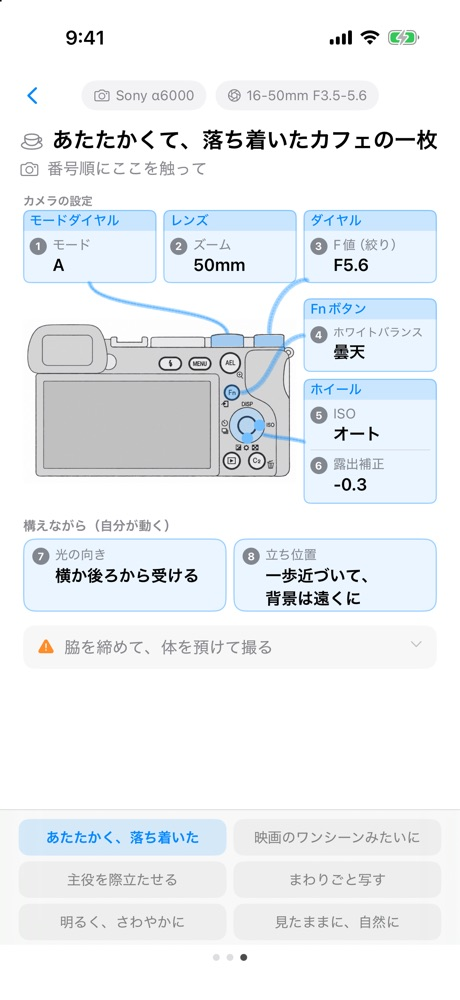
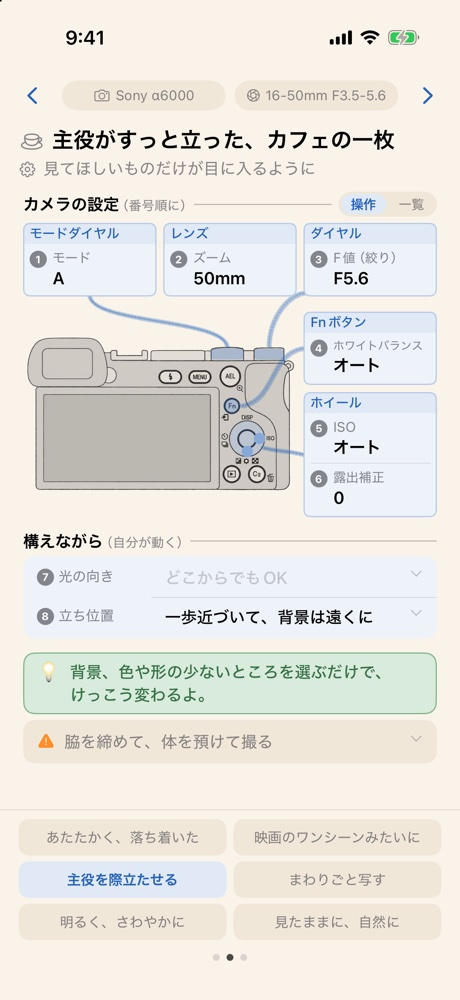
Screens from the current Totty: camera picture on P.2, scale guide on P.3

diff --git a/totty/index.html b/totty/index.html
@@ -135,17 +135,17 @@
       </div>
       <div class="step">
         <div>
-          <div class="step-head"><span class="num">2</span><h3>設定と撮影のコツが出る</h3></div>
-          <p>まず試してみる設定が、番号順に並びます。光の向きや立ち位置など、構えながら気をつけることも。</p>
+          <div class="step-head"><span class="num">2</span><h3>設定が、カメラの絵の上に出る</h3></div>
+          <p>まず試してみる設定が、番号順に並びます。どのボタンで変えるかも、絵でひと目で。光の向きや立ち位置など、構えながら気をつけることも。</p>
         </div>
-        <img class="shot" src="img/settings.jpg" width="460" height="1000" alt="「あたたかくて、落ち着いたカフェの一枚」の設定が番号順に並んでいる画面">
+        <img class="shot" src="img/camera.jpg" width="460" height="1000" alt="「主役がすっと立った、カフェの一枚」の設定が、カメラの背面の絵の上に番号順に並んでいる画面">
       </div>
       <div class="step">
         <div>
-          <div class="step-head"><span class="num">3</span><h3>カメラのどこを触るかも</h3></div>
-          <p>その設定がカメラのどのボタンにあるか、絵で見られます。</p>
+          <div class="step-head"><span class="num">3</span><h3>どうしてその設定か、目盛りでわかる</h3></div>
+          <p>ズームやF値を「広く〜大きく」「ぼける〜くっきり」の目盛りで見せます。使っているうちに、設定の意味が身につきます。</p>
         </div>
-        <img class="shot" src="img/camera.jpg" width="460" height="1000" alt="カメラの背面の絵に、触るボタンが青く示されている画面">
+        <img class="shot" src="img/settings.jpg" width="460" height="1000" alt="撮り方のポイントの画面。ズームとF値が目盛りで示され、背景をぼかすには主役に近づく、と書いてある">
       </div>
     </div>
   </section>
